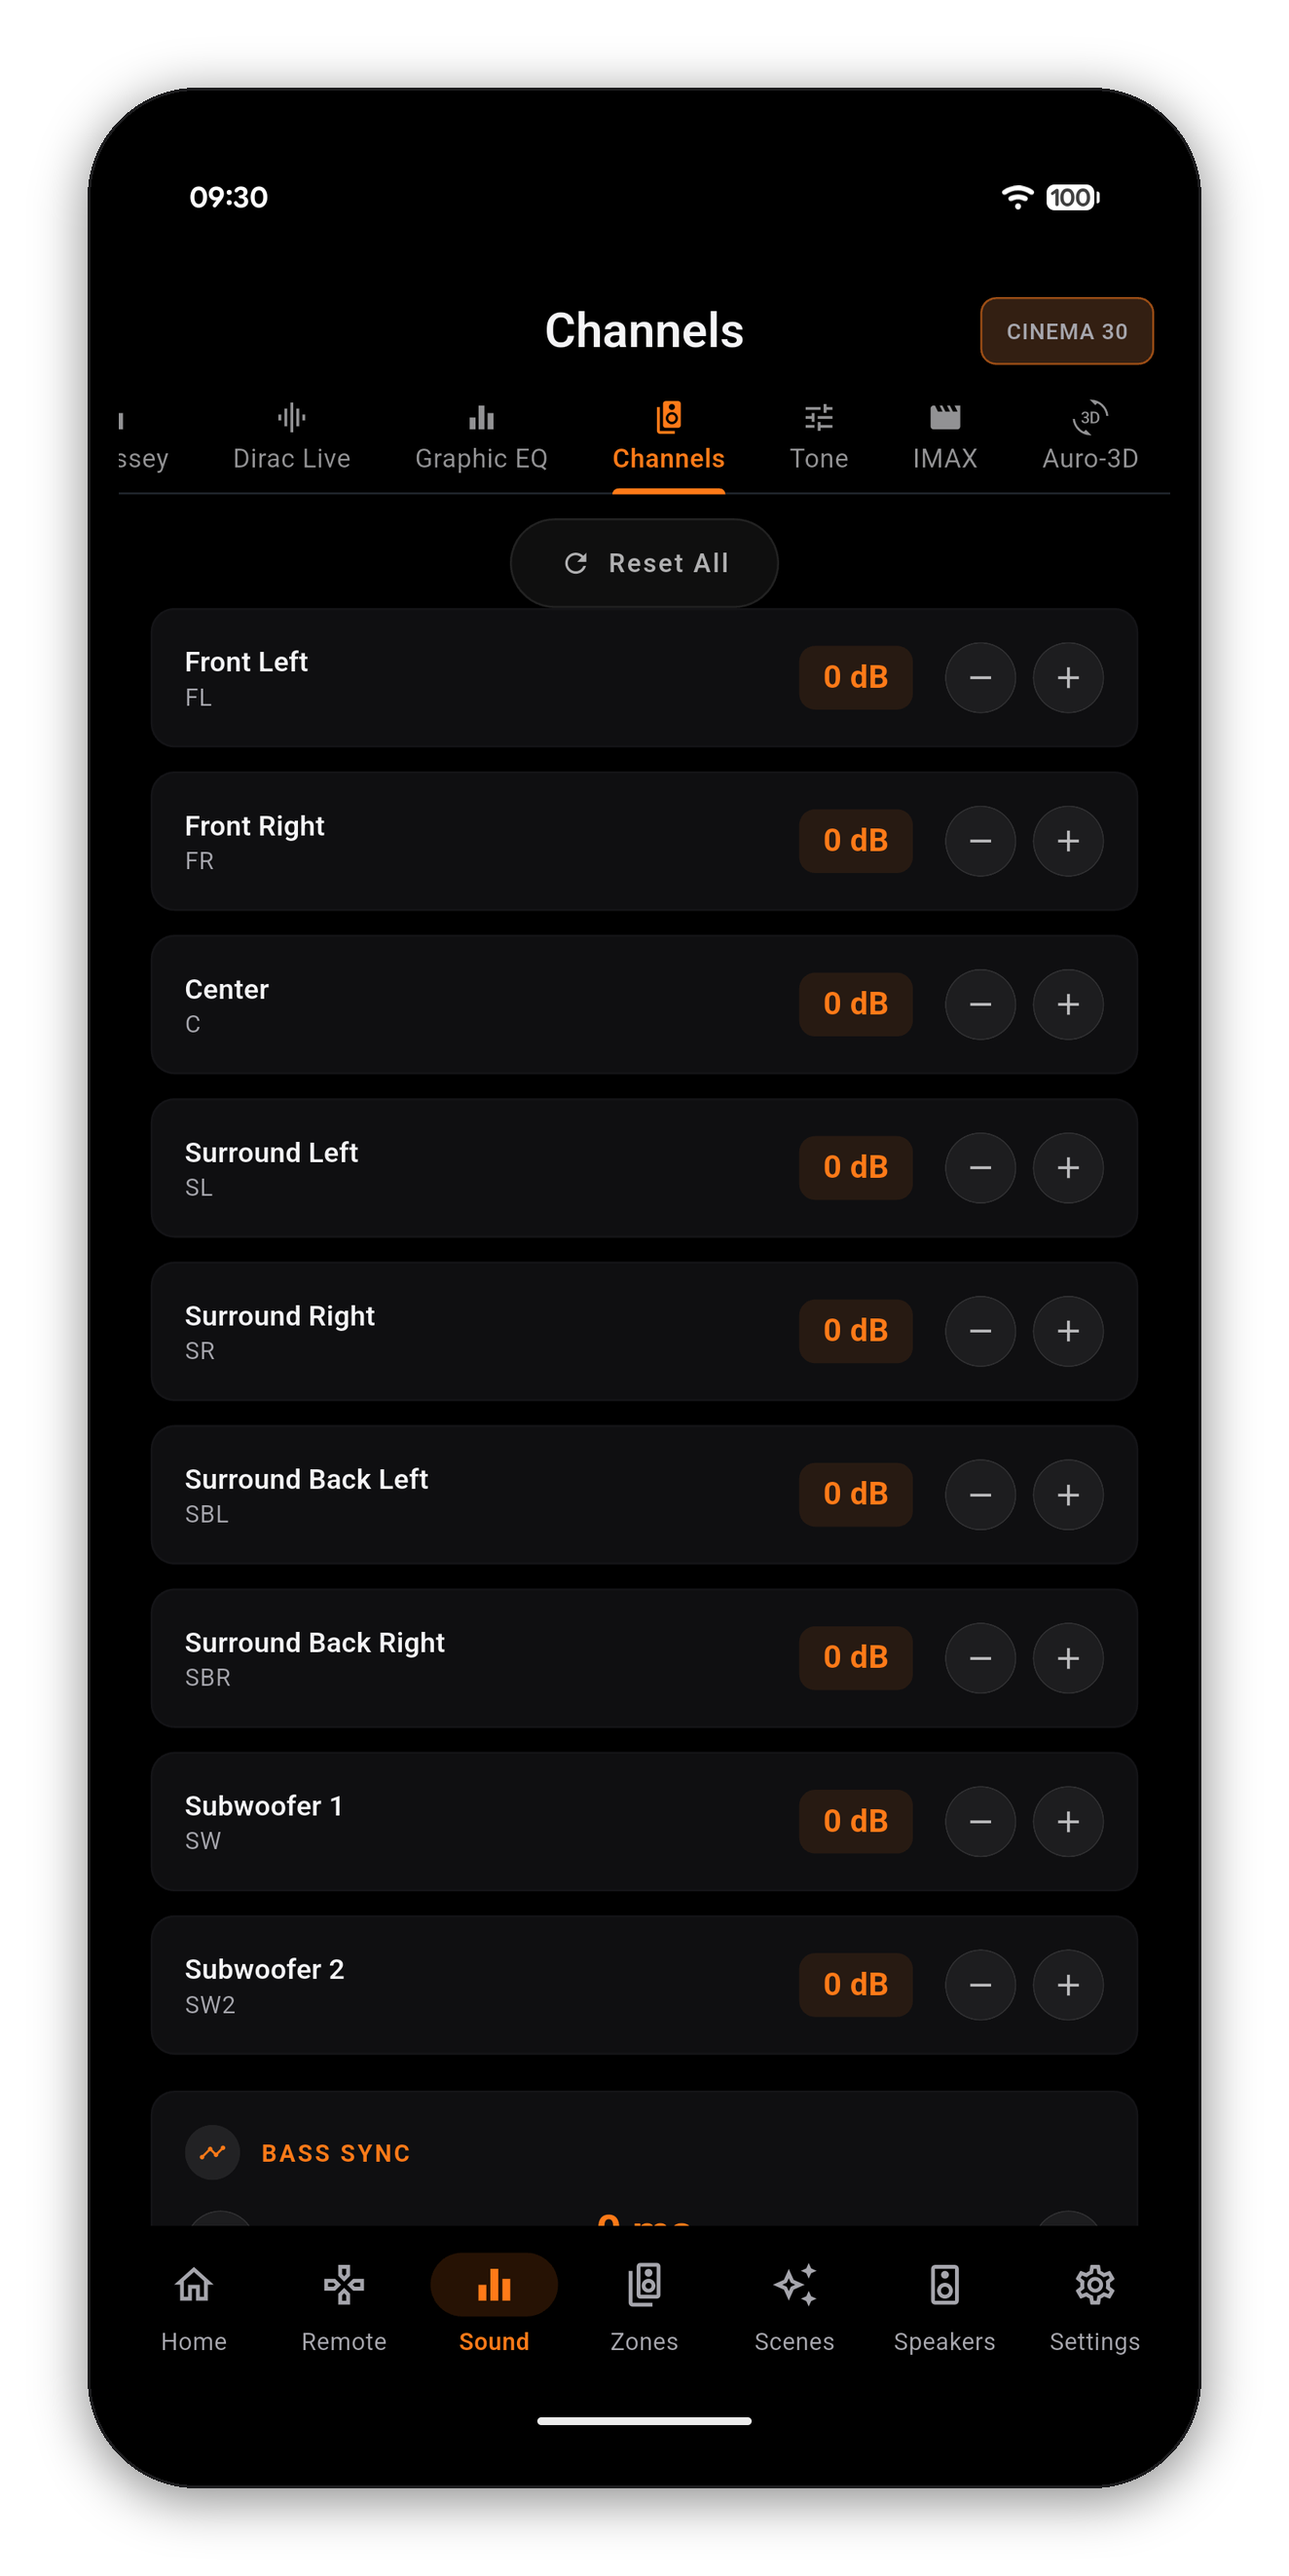
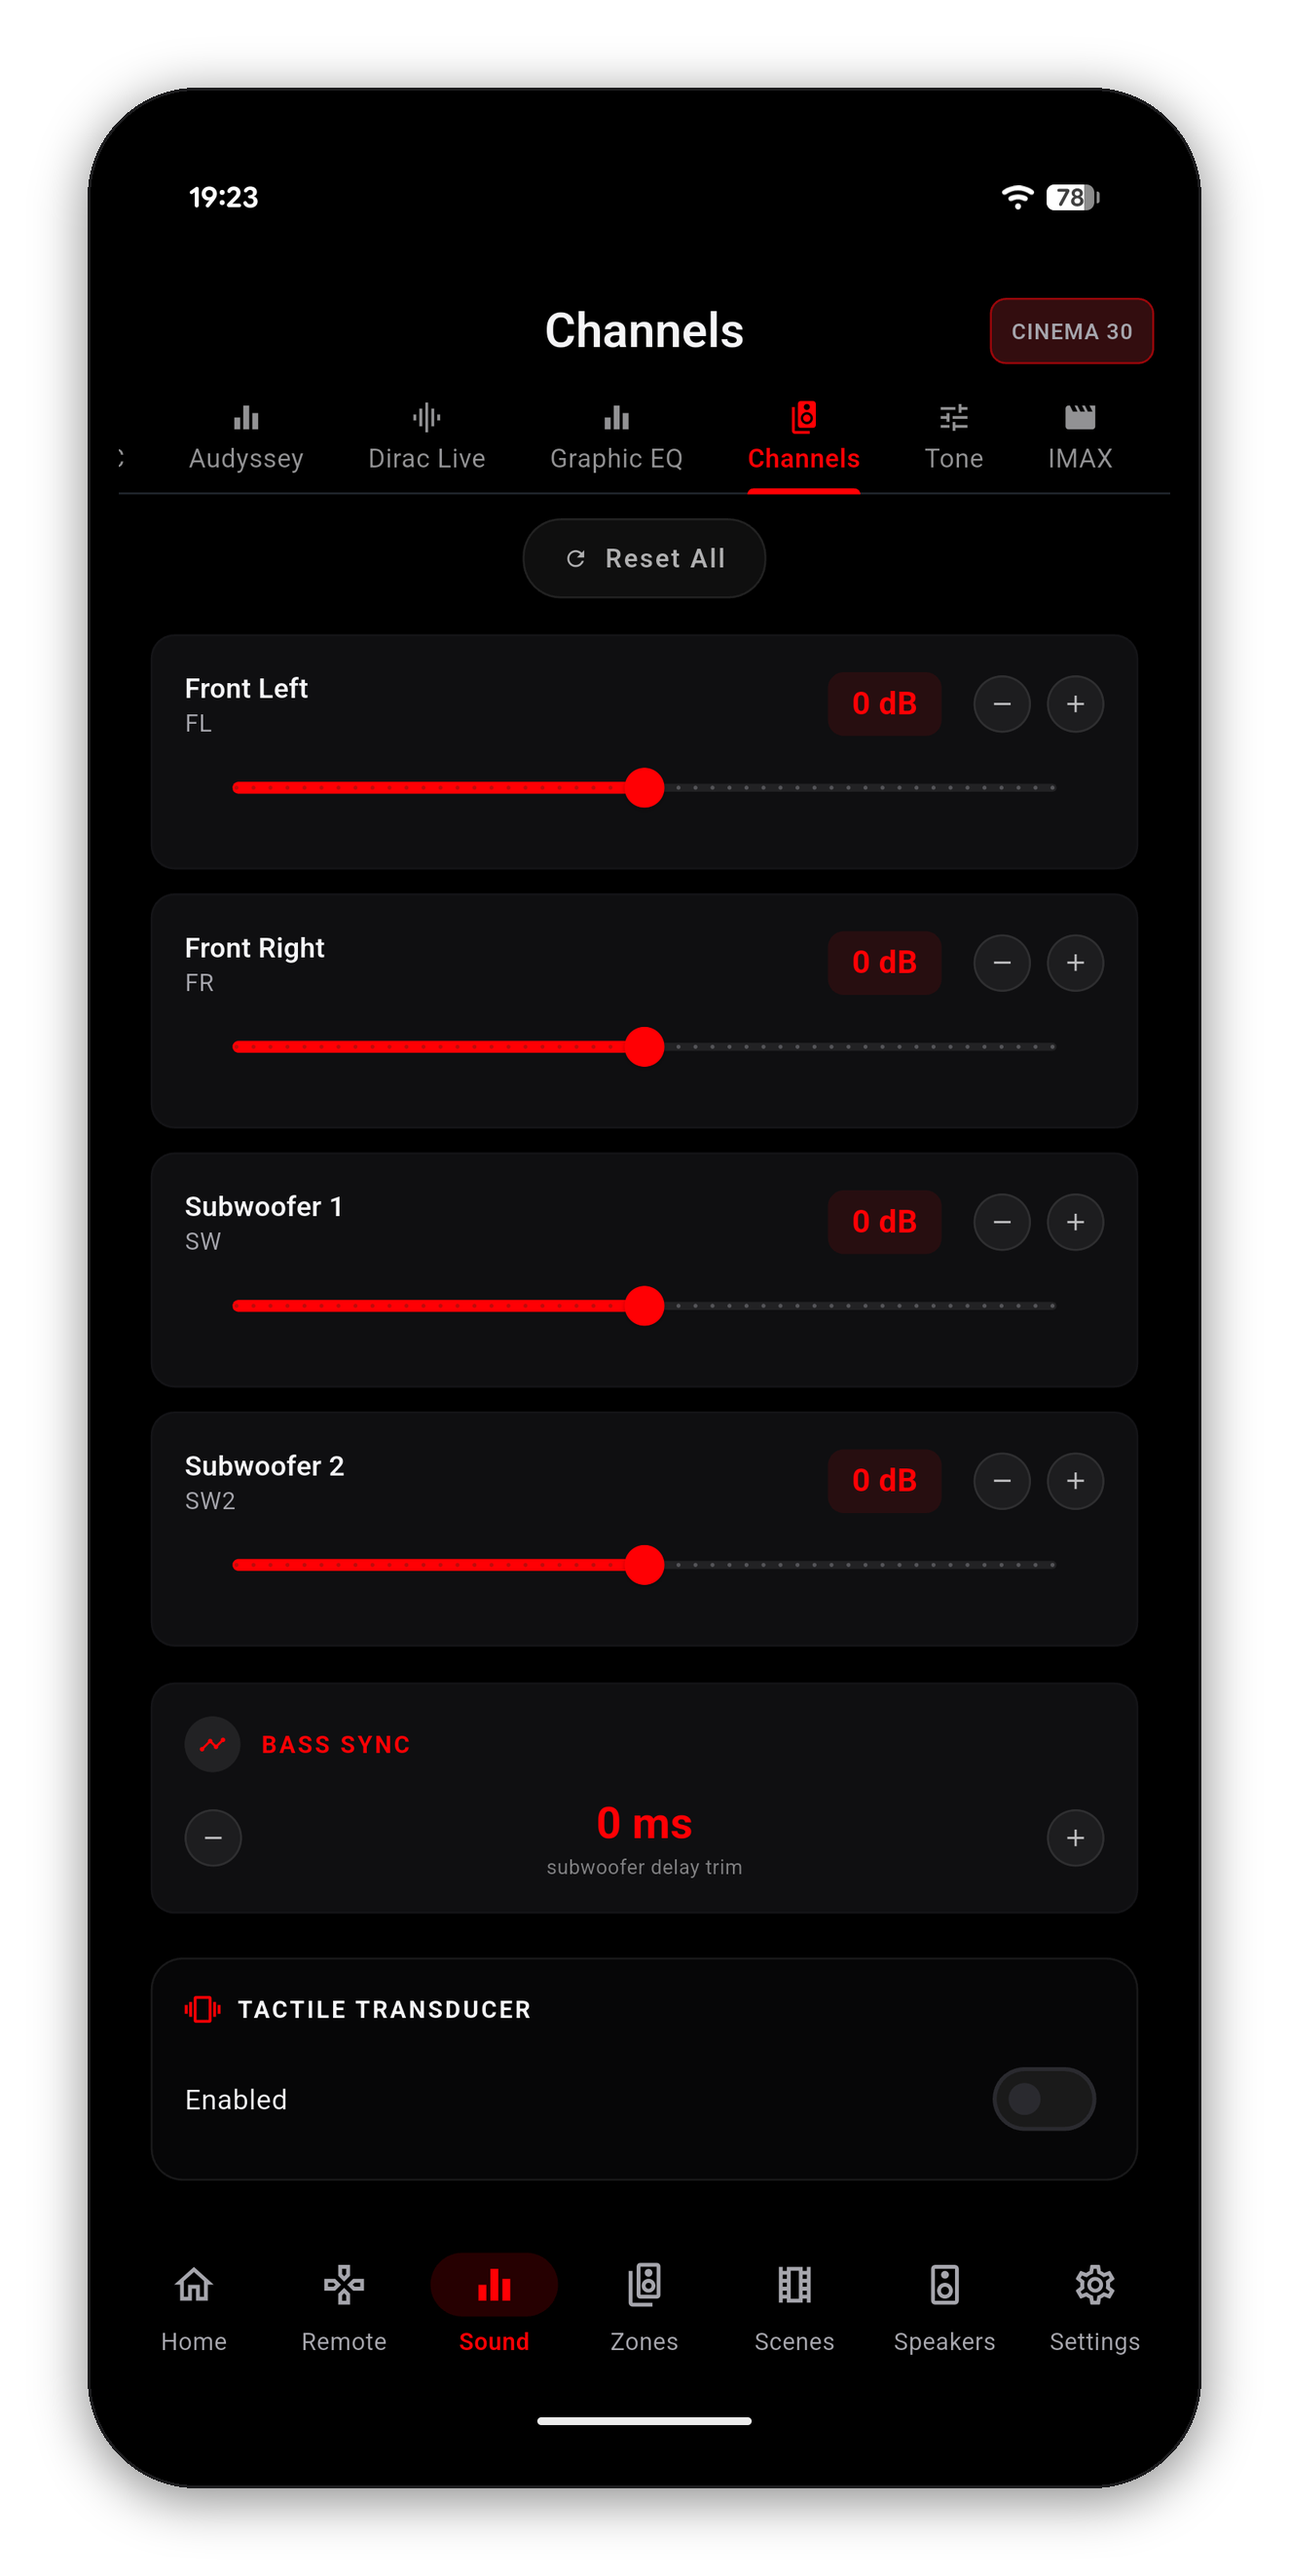
deploy 2026-09-14 c763633

diff --git a/docs/guide/home-assistant-dashboard/index.html b/docs/guide/home-assistant-dashboard/index.html
@@ -489,19 +489,19 @@ apex_config:
       <h2>If a tile never lights up</h2>
     </div>
     <p class="lead">Before assuming you built it wrong: some of them cannot light up, and it is worth knowing which.</p>
-    <p class="lead">A tile can only show its state if Home Assistant can read it. Home Assistant reads your receiver through the Denon AVR integration, and that publishes a specific list.</p>
+    <p class="lead">A tile can only show its state if Home Assistant can read it, and it reads your receiver from two places. The Denon AVR integration publishes the basics on the media player entity. AVR Maestro publishes the rest: it creates a <b>Status Bridge</b> sensor, <code>sensor.avr_maestro_your_receiver</code>, and writes the readings it already holds onto it as attributes.</p>
     <table class="t">
-      <thead><tr><th>Home Assistant can see</th><th>Home Assistant cannot see</th></tr></thead>
+      <thead><tr><th>On the media player entity</th><th>On the Status Bridge sensor</th></tr></thead>
       <tbody>
         <tr><td>Power</td><td>Audyssey MultEQ curve</td></tr>
-        <tr><td>Selected source</td><td>Dynamic Volume setting</td></tr>
+        <tr><td>Selected source</td><td>Dynamic Volume and reference level</td></tr>
         <tr><td>Surround mode</td><td>Which Dirac slot is loaded</td></tr>
-        <tr><td>Volume and mute</td><td>Front panel dimmer level</td></tr>
-        <tr><td>Dynamic EQ, sometimes</td><td>Eco mode, speaker preset, virtualizer</td></tr>
+        <tr><td>Volume and mute</td><td>Front panel dimmer, Eco mode</td></tr>
+        <tr><td>Dynamic EQ, sometimes</td><td>Speaker preset, tone, and dozens more</td></tr>
       </tbody>
     </table>
-    <p class="lead">Everything in the right-hand column is <em>readable from the receiver</em> - it answers when asked, over the same protocol AVR Maestro uses to draw its own screens. It just is not published to Home Assistant, so a dashboard has nowhere to read it from. Those buttons work perfectly; they cannot show you which one is active.</p>
-    <p class="lead">Measured on the receiver this was built on: <b>twenty of sixty controls can show their state, and forty cannot</b>. Publishing the other forty is on the roadmap, and it is the difference between a wall of buttons and a control surface.</p>
+    <p class="lead">Both columns are readable now. Take a media player value from <code>states['media_player.your_receiver'].attributes</code>, and a Status Bridge value with <code>state_attr('sensor.avr_maestro_your_receiver','dirac_slot')</code>, so a tile lights up for the setting that is actually active instead of only firing the script that changes it.</p>
+    <p class="lead">Measured on the receiver this was built on: the media player entity carries about twenty of the sixty controls, and the Status Bridge sensor publishes roughly forty more. Between the two, a dashboard can read nearly everything it can change - the difference between a wall of buttons and a control surface.</p>
     <div class="note"><b>If a value can mean two things, say so.</b> Dynamic EQ arrives as <code>true</code>, <code>false</code>, or not at all. Treating "not at all" as "off" puts a confident wrong answer on your wall.</div>
 <pre class="code">icon_color: >-
   {% set d = state_attr('media_player.your_receiver','dynamic_eq') %}

diff --git a/docs/guide/home-automation/index.html b/docs/guide/home-automation/index.html
@@ -133,10 +133,37 @@
 
     <div class="lockrow" style="margin-top:28px">
       <div>
+        <div class="eyebrow">Not just scenes</div>
+        <h2>Speaker Presets, Dirac and Audyssey, too</h2>
+        <p>Turn on <b>Sync Advanced Controls</b> and the app publishes a script for far more than your scenes: every Speaker Preset, every Dirac Live filter slot, each Audyssey curve. A full sync on a Cinema 30 lands over seventy scripts, so a dashboard button or a voice command can load a Dirac filter or switch the room curve the same way it recalls a scene.</p>
+      </div>
+      <img alt="AVR Maestro's Home Assistant screen with Sync Advanced Controls turned on" src="../../screenshots/ha-app-controls.png" />
+    </div>
+
+    <div class="lockrow" style="margin-top:28px">
+      <div>
+        <div class="eyebrow">It reads, not only writes</div>
+        <h2>Home Assistant can see what is active</h2>
+        <p>A script can be run but never read, so early dashboards could switch the Audyssey curve or the Dirac slot with no way to show which one was on. The readings the app already holds - the live surround mode, the active Dirac filter, the speaker preset, the dimmer and dozens more - now publish as attributes on the receiver's status sensor, so a tile can light up for the setting that is actually running.</p>
+      </div>
+      <img alt="AVR Maestro publishing Speaker Preset, Dirac Live and Audyssey control scripts to Home Assistant" src="../../screenshots/ha-sync-advanced.png" />
+    </div>
+
+    <div class="lockrow" style="margin-top:28px">
+      <div>
+        <div class="eyebrow">Every room</div>
+        <h2>Your other zones, from the same dashboard</h2>
+        <p>Power, volume and mute for Zone 2 and Zone 3 publish as their own scripts, so a patio or a second room answers a dashboard or a voice assistant the way the main zone always has. Only the zones your receiver actually reports get buttons, so a two-zone receiver never grows a Zone 3.</p>
+      </div>
+    </div>
+
+    <div class="lockrow" style="margin-top:28px">
+      <div>
         <div class="eyebrow">If you synced with an older build</div>
         <h2>Your script IDs change once</h2>
         <p>Scripts used to be named after the scene <em>and</em> the receiver, so renaming either one left the old script behind and quietly created a second. They are now named after the scene and the receiver's MAC address, which is what makes a rename update the same script instead of forking it.</p>
         <p>The first sync after that change replaces the old scripts with the new ones. <b>Anything you built on the old IDs needs repointing once</b> - a dashboard button, an automation, a voice alias. Open the script in Home Assistant to find its new entity ID.</p>
+        <p>Entities now read from the receiver too - <code>cinema30</code> rather than thirty-two characters of machine identifier - so the list is legible and autocomplete finds them. Ids from earlier versions keep working.</p>
       </div>
     </div>
   </div>

diff --git a/docs/guide/sound/index.html b/docs/guide/sound/index.html
@@ -217,13 +217,13 @@
       <div>
         <p class="lead">Per-channel trim in dB for every speaker present in the <b>current signal</b> - Front Left, Front Right, Center, the surrounds, the surround backs, both subwoofers and the height layer, each with its short name underneath so there is no guessing which is which.</p>
         <ul class="plain">
-          <li><b>Plus and minus</b> nudge a single channel while you listen.</li>
+          <li><b>Drag the slider</b> for a big move, or tap <b>plus and minus</b> for a single fine step, both while you listen.</li>
           <li><b>Reset All</b> puts every channel back to 0 dB.</li>
           <li><b>Bass Sync</b> at the bottom time-aligns the LFE channel against the mains.</li>
         </ul>
         <p class="lead">These are the live per-signal trims. The per-speaker <b>reference levels</b> stored on the Speaker Preset live on the <a href="/guide/speakers/">Speakers tab</a> instead, and the app explains the difference in the page's own info card.</p>
       </div>
-      <img alt="The Channels page with per-channel dB trim for every speaker" src="../../screenshots/sound-channels.png" />
+      <img alt="The Channels page with a level slider and fine plus/minus steps for every speaker" src="../../screenshots/sound-channels.png" />
     </div>
   </div>
 </section>
